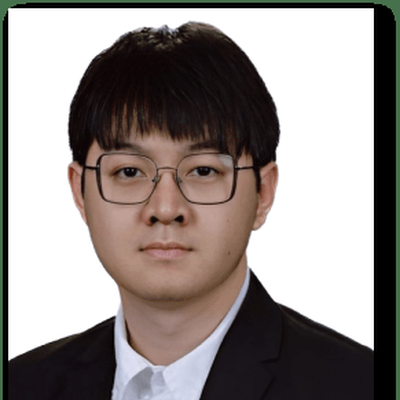
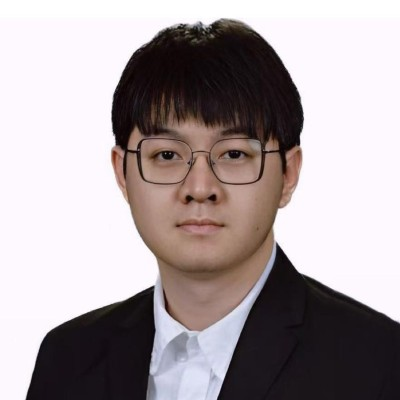
Use LinkedIn headshot for portrait

diff --git a/index.html b/index.html
@@ -57,7 +57,7 @@
 <main>
   <header>
     <div class="id">
-      <img src="assets/portrait.png?v=2" alt="Zhengyan Hu">
+      <img src="assets/portrait.png?v=3" alt="Zhengyan Hu">
       <div>
         <h1>Zhengyan Hu</h1>
         <div class="role">Software Engineer — LLM Agent Infrastructure</div>
